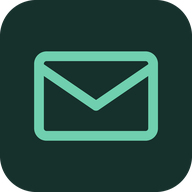
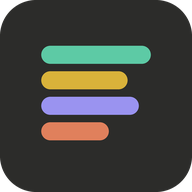
Ícone novo: as cores das áreas sobre cinza escuro
O envelope deixou de ser o centro do app. O ícone passa a ser quatro
faixas nas cores das áreas (em caixa, cartões, investimentos, dívidas)
sobre fundo cinza escuro.

- icones/icone.svg: o desenho novo
- icones/*.png: 192, 512, maskable (conteúdo na zona segura) e o do iPhone
- sw.js: appfinancas-v68

Changed region(s): [[0.1562, 0.2188, 0.8438, 0.75]]

diff --git a/sw.js b/sw.js
@@ -1,7 +1,7 @@
 // Service worker: o que faz o app abrir sem internet.
 // design/01-visao.md princípio 7 — a sincronização é conveniência, não dependência.
 
-const CACHE = 'appfinancas-v67';
+const CACHE = 'appfinancas-v68';
 
 const CASCA = [
   './',
